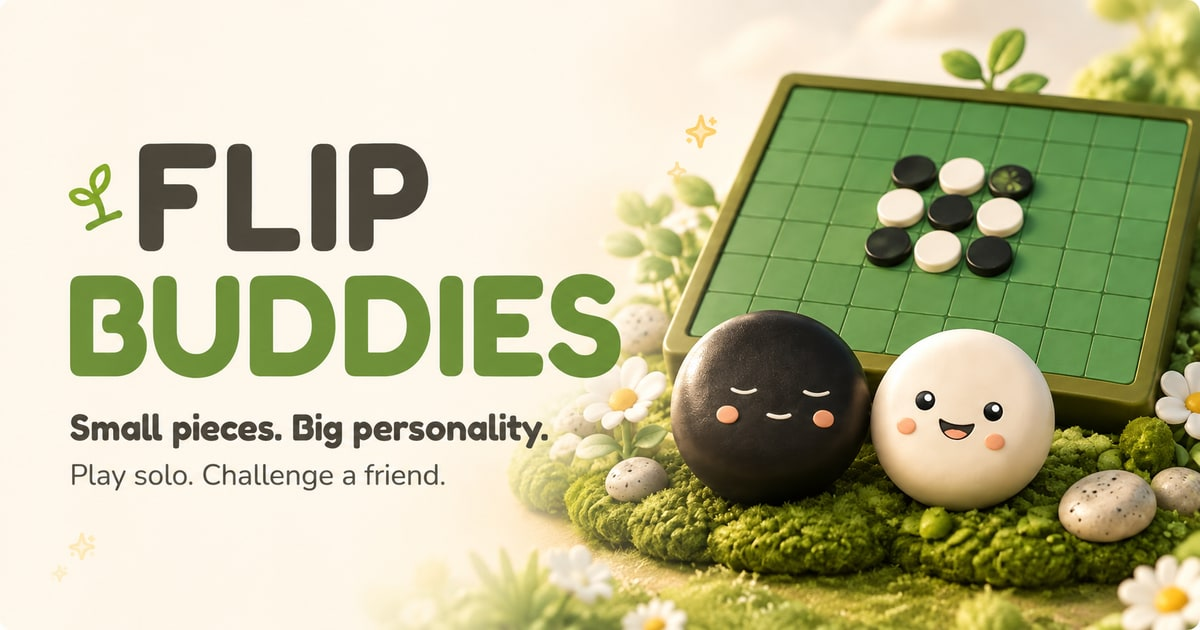
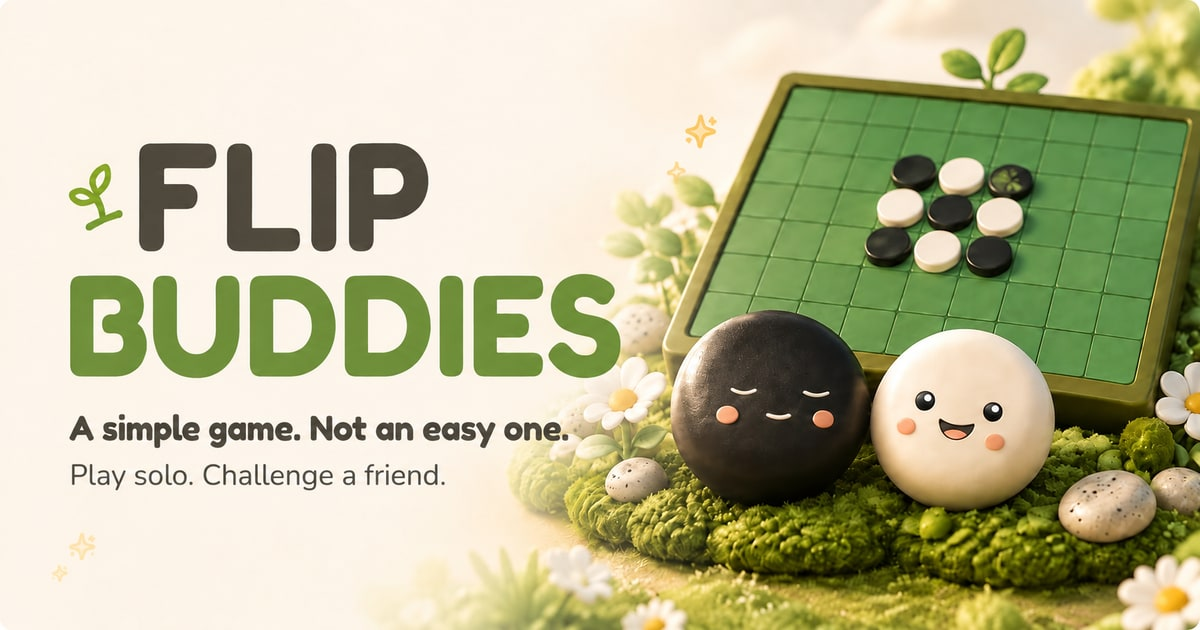
Use a clearer challenge-focused game tagline

diff --git a/index.html b/index.html
@@ -6,27 +6,27 @@
     <meta name="theme-color" content="#faf7ef" />
     <meta
       name="description"
-      content="Small pieces. Big personality. Play a cozy game of Othello against the CPU, meet your pill pals, and find your next clever move."
+      content="A simple game. Not an easy one. Play a cozy game of Othello against the CPU, meet your pill pals, and find your next clever move."
     />
     <link rel="icon" type="image/svg+xml" href="/favicon.svg" />
     <link rel="canonical" href="https://flipbuddies.vladpalacio.com/" />
     <meta property="og:type" content="website" />
     <meta property="og:site_name" content="Flip Buddies" />
-    <meta property="og:title" content="Flip Buddies — Small pieces. Big personality." />
+    <meta property="og:title" content="Flip Buddies — A simple game. Not an easy one." />
     <meta property="og:description" content="A cozy twist on Othello. Play solo, challenge a friend, and meet your pill buddies." />
     <meta property="og:url" content="https://flipbuddies.vladpalacio.com/" />
-    <meta property="og:image" content="https://flipbuddies.vladpalacio.com/og-image.jpg" />
+    <meta property="og:image" content="https://flipbuddies.vladpalacio.com/og-image.jpg?v=2" />
     <meta property="og:image:type" content="image/jpeg" />
     <meta property="og:image:width" content="1200" />
     <meta property="og:image:height" content="630" />
     <meta property="og:image:alt" content="Flip Buddies: smiling black and white pill characters beside a green Othello board in a sunny garden." />
     <meta name="twitter:card" content="summary_large_image" />
-    <meta name="twitter:title" content="Flip Buddies — Small pieces. Big personality." />
+    <meta name="twitter:title" content="Flip Buddies — A simple game. Not an easy one." />
     <meta name="twitter:description" content="A cozy twist on Othello. Play solo, challenge a friend, and meet your pill buddies." />
-    <meta name="twitter:image" content="https://flipbuddies.vladpalacio.com/og-image.jpg" />
+    <meta name="twitter:image" content="https://flipbuddies.vladpalacio.com/og-image.jpg?v=2" />
     <meta name="twitter:image:alt" content="Flip Buddies: smiling black and white pill characters beside a green Othello board in a sunny garden." />
     <meta name="twitter:creator" content="@deifosv" />
-    <title>Flip Buddies — Small pieces. Big personality.</title>
+    <title>Flip Buddies — A simple game. Not an easy one.</title>
   </head>
   <body>
     <div id="root"></div>

diff --git a/src/components/SiteFooter.tsx b/src/components/SiteFooter.tsx
@@ -49,7 +49,7 @@ export default function SiteFooter({
 }
 
 export const informationTitles: Record<InformationPage, string> = {
-  about: "Small pieces. Big personality.",
+  about: "A simple game. Not an easy one.",
   privacy: "Your privacy",
   terms: "About this preview",
   multiplayer: "A place for you and a friend.",

diff --git a/docs/artwork/share-card.md b/docs/artwork/share-card.md
@@ -3,6 +3,10 @@
 The live share image is `public/og-image.jpg`, a 1200 × 630 JPEG. It was created
 with the built-in image generation tool, using `docs/images/flip-buddies.png`
 as a style reference, then resized and compressed for delivery. It uses the
-project MIT license. The full generation prompt was:
+project MIT license. The current tagline is "A simple game. Not an easy one."
+The card was revised with the built-in image generation tool to replace the
+tagline while preserving the title, second line, illustration, and layout.
+The image URL uses `?v=2` so preview services can fetch the revised card.
+The generation brief is:
 
-> Create one polished Open Graph social sharing card for Flip Buddies, a cozy Othello browser game. Use the attached website screenshot only as style and character reference, not as a screenshot to reproduce. Landscape aspect ratio exactly 1200:630, ideally output 1200x630. Cream and sage green palette, warm soft sunshine, tactile charming 3D clay illustration, moss and tiny daisies. Right half: a green 8-by-8 Othello board in gentle perspective and two large adorable round pill buddies, one charcoal and one ivory, tiny smiling faces and peach cheeks, consistent with reference. Left half: beautifully laid out, very large legible rounded bold typography exact title 'FLIP BUDDIES' with FLIP charcoal and BUDDIES green, split into two lines if needed. Below title exact tagline 'Small pieces. Big personality.' and smaller line 'Play solo. Challenge a friend.' Keep all text and faces within generous safe margins 70px from edges. Sophisticated editorial composition, clean airy left area and richly illustrated right area, subtle garden backdrop. No website UI, browser frames, buttons, watermarks, badges, or extra text. This must read immediately as a premium game share image at small thumbnail size.
+> Create one polished Open Graph social sharing card for Flip Buddies, a cozy Othello browser game. Use the attached website screenshot only as style and character reference, not as a screenshot to reproduce. Landscape aspect ratio exactly 1200:630, ideally output 1200x630. Cream and sage green palette, warm soft sunshine, tactile charming 3D clay illustration, moss and tiny daisies. Right half: a green 8-by-8 Othello board in gentle perspective and two large adorable round pill buddies, one charcoal and one ivory, tiny smiling faces and peach cheeks, consistent with reference. Left half: beautifully laid out, very large legible rounded bold typography exact title 'FLIP BUDDIES' with FLIP charcoal and BUDDIES green, split into two lines if needed. Below title exact tagline 'A simple game. Not an easy one.' and smaller line 'Play solo. Challenge a friend.' Keep all text and faces within generous safe margins 70px from edges. Sophisticated editorial composition, clean airy left area and richly illustrated right area, subtle garden backdrop. No website UI, browser frames, buttons, watermarks, badges, or extra text. This must read immediately as a premium game share image at small thumbnail size.
